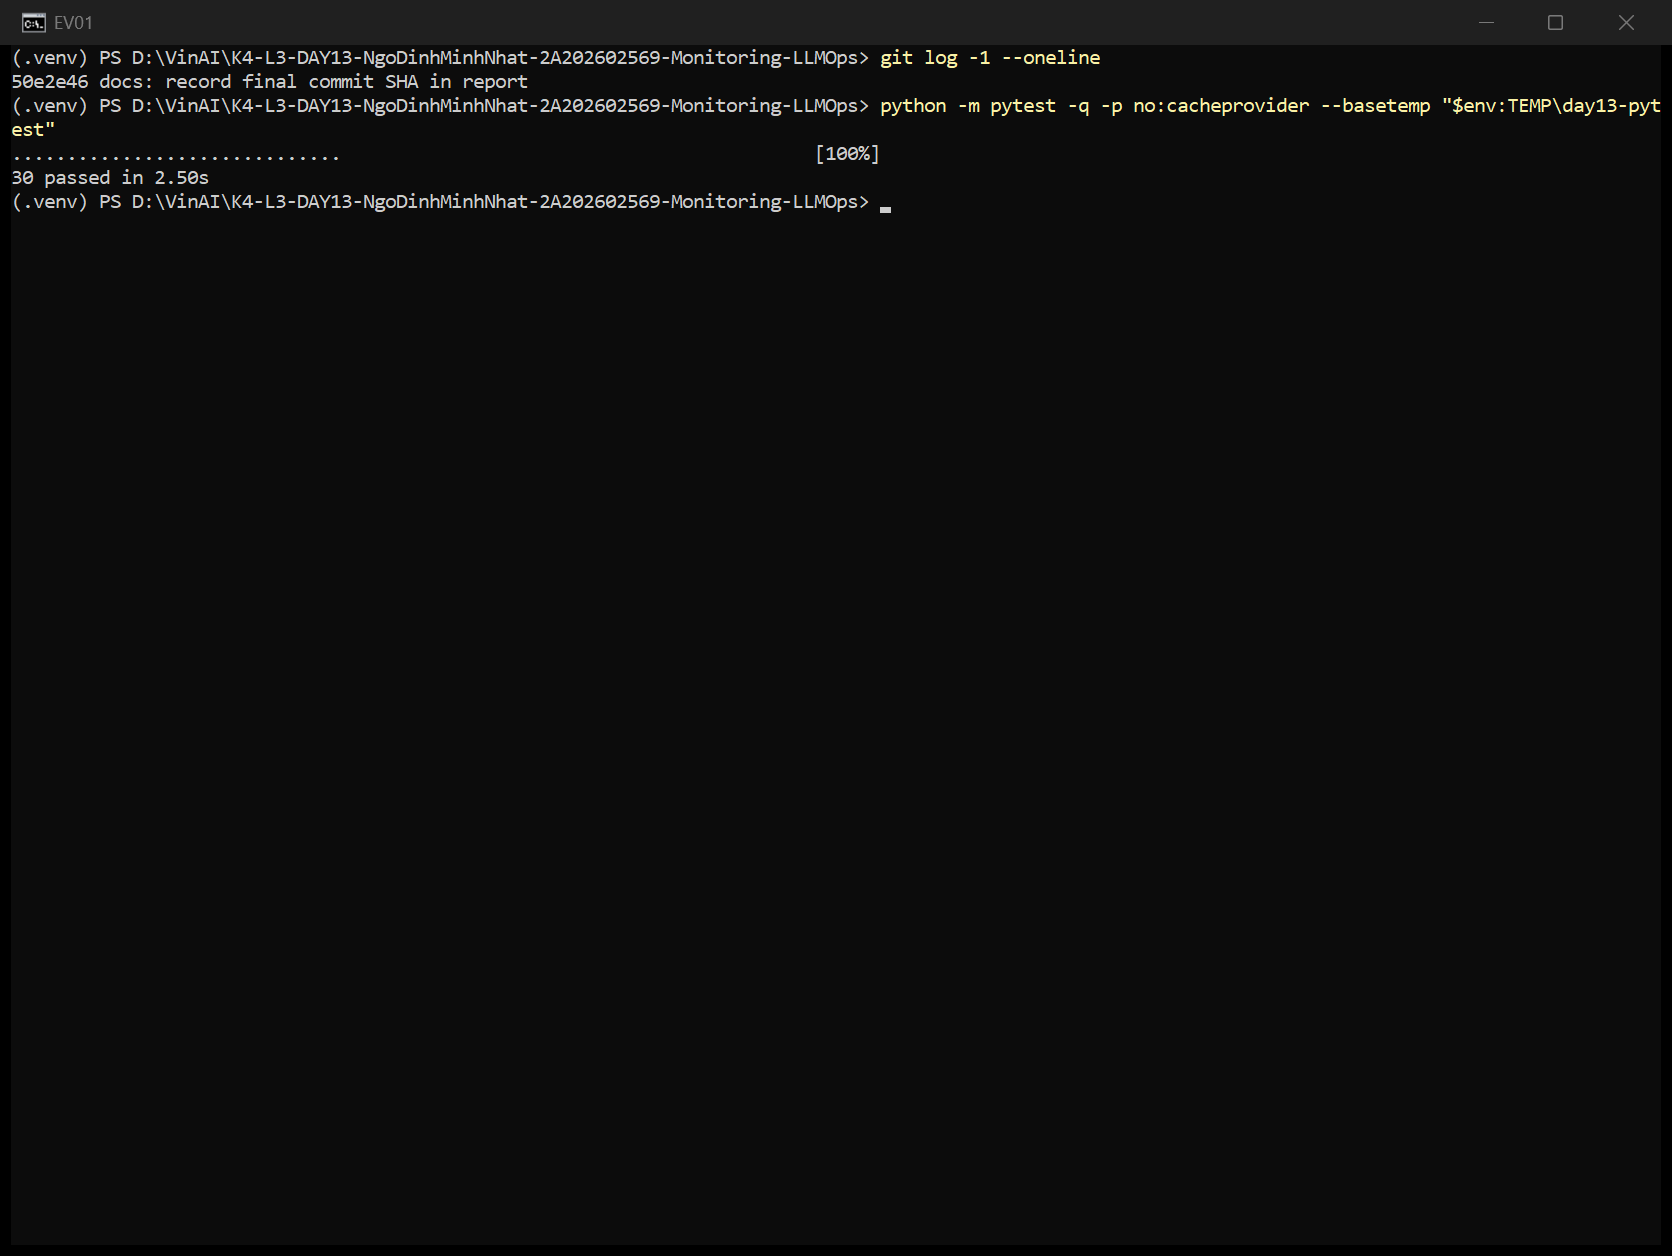
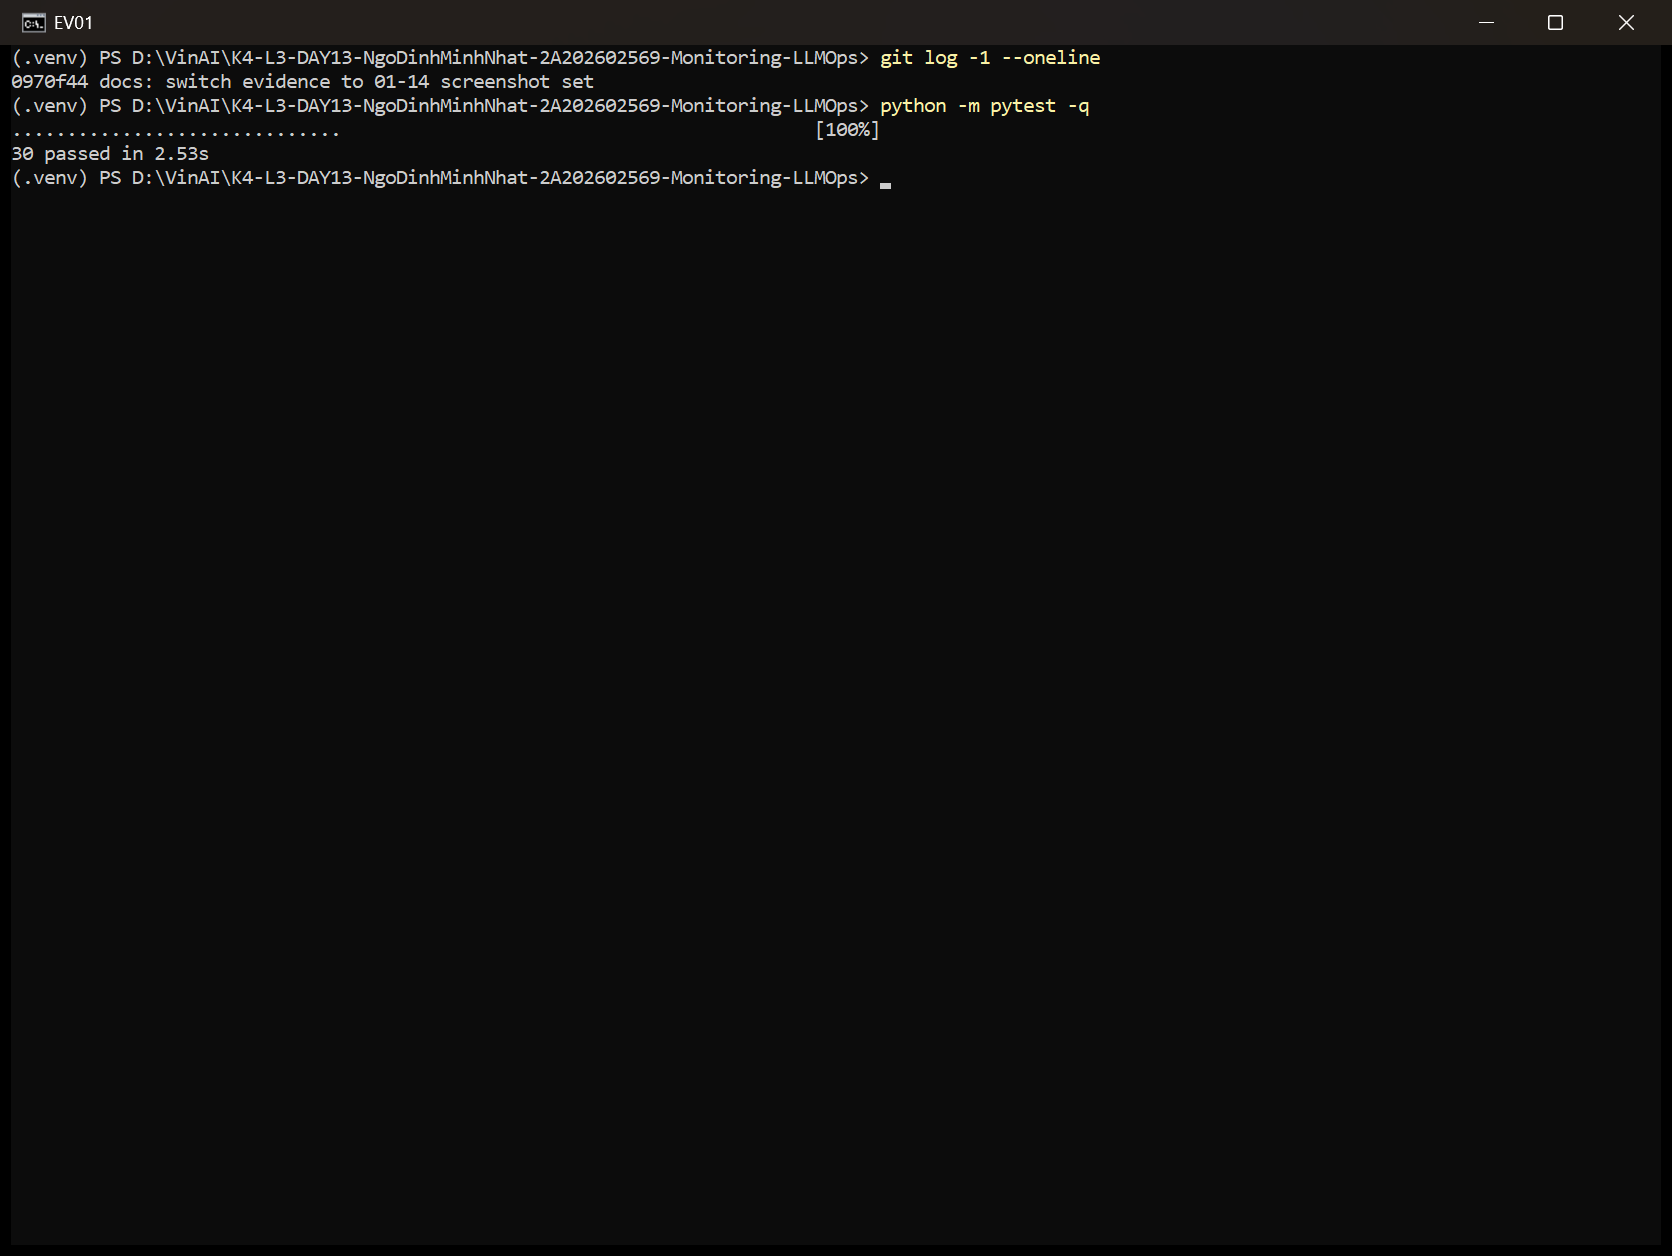
docs: recapture pytest evidence with plain command

diff --git a/submission/REPORT.md b/submission/REPORT.md
@@ -8,7 +8,7 @@
 - **MSSV:** 2A202602569
 - **Lớp:** K4-L3B
 - **Repository URL:** https://github.com/MinhNhatUet/K4-L3-DAY13-NgoDinhMinhNhat-2A202602569-Monitoring-LLMOps
-- **Commit SHA cuối:** `d996b494b71ed397990defa12aecdbf1abe6453a` là commit source/config cuối (ảnh 01 chạy test tại `50e2e46`, chỉ khác report); các commit sau chỉ cập nhật `submission/`. SHA nộp LMS là commit mới nhất trên `main`.
+- **Commit SHA cuối:** `d996b494b71ed397990defa12aecdbf1abe6453a` là commit source/config cuối (ảnh 01 chạy test tại `0970f44`, code giống hệt, chỉ khác `submission/`); các commit sau chỉ cập nhật `submission/`. SHA nộp LMS là commit mới nhất trên `main`.
 - **Challenge ID:** `day13-k4-l3b-monitoring-llmops-v1`
 - **Tên project Langfuse cá nhân:** `day13-k4-l3b-2A202602569`
 
@@ -42,7 +42,7 @@ CP3 gồm baseline, challenge và hậu kiểm; log CP0–CP2 đã chuyển ra n
 |---|---|---|---|
 | `validate_logs.py` | 30/100 | 100/100 | Log mới sau khi chuyển log cũ ra ngoài và restart: 21 records, 10 unique IDs, 0 thiếu field/context, 0 PII leak ([02](evidence/02-log-validator.png)) |
 | `validate_dashboard.py` | 6/6 | 6/6 | Có dashboard runtime thật ([11](evidence/11-dashboard-overview.png), [12](evidence/12-incident-metric.png)) |
-| `pytest` | 22 passed | 30 passed in 2.50s | Thêm test PII, generation observability, dashboard runtime ([01](evidence/01-pytest.png)); chạy với `-p no:cacheprovider --basetemp` vì thư mục `%TEMP%\pytest-of-<user>` và `.pytest_cache` trên máy bị khóa quyền (PermissionError), không phải lỗi test |
+| `pytest` | 22 passed | 30 passed in 2.53s | Thêm test PII, generation observability, dashboard runtime ([01](evidence/01-pytest.png)) |
 | Số traces hợp lệ | 0 (key trống) | 173 trace trong project cá nhân (Past 1 day) | Mỗi trace có root + retrieval + generation, nối log bằng `correlation_id` ([06](evidence/06-trace-list.png)) |
 | Số PII leak | 0 theo validator | 0 | Trace không capture input/output thô; chỉ preview đã scrub |
 | Latency P95 / TTFT P95 | 152 ms / 50 ms | Bình thường 153 ms / 50 ms; lúc challenge 2666 ms / 50 ms | Xem mục 7 |
@@ -143,7 +143,7 @@ Trước khi có đề, đã practice `tool_fail` (error rate 100%, span retriev
 
 - **Một quyết định kỹ thuật quan trọng và lý do:** Không gửi input/output thô lên Langfuse (`capture_input/output=False`); trace chỉ mang metadata an toàn (`correlation_id`, model, feature, prompt name/label/version, token, cost) và preview đã qua `scrub_text`. Lý do: trace được lưu ở dịch vụ bên ngoài, còn người dùng có thể nhập email/SĐT/CCCD; PII scrubber trong logging không bảo vệ được dữ liệu đi qua SDK tracing. Đánh đổi: khi debug không xem được nguyên văn prompt, nên cần `correlation_id` để nối sang structured log (đã scrub) khi cần ngữ cảnh.
 - **Một lỗi/blocker đã gặp:** Khi điều tra CP3, gọi `GET /api/public/traces` để tìm trace theo `correlation_id` thì nhận HTTP 410 `LEGACY_API_UNAVAILABLE_FOR_NEW_ORGANIZATION`: project tạo sau 16/09/2026 không còn dùng được API cũ.
-- **Cách tìm nguyên nhân và xử lý:** Đọc thông báo lỗi (có gợi ý đường dẫn mới), chuyển sang `GET /api/public/v2/observations` với `fromStartTime`/`toStartTime` và `fields=core,basic,usage,prompt,metadata,model,trace_context`, lọc theo `metadata.correlation_id`, rồi gom theo `traceId`, cách `scripts/verify_cp2_cloud.py` đã dùng ở CP2. Blocker phụ: pytest báo `PermissionError` khi tạo `tmp_path` trong `%TEMP%`; xử lý bằng `--basetemp` trỏ tới thư mục ghi được, sau đó 30/30 test pass (không phải lỗi code).
+- **Cách tìm nguyên nhân và xử lý:** Đọc thông báo lỗi (có gợi ý đường dẫn mới), chuyển sang `GET /api/public/v2/observations` với `fromStartTime`/`toStartTime` và `fields=core,basic,usage,prompt,metadata,model,trace_context`, lọc theo `metadata.correlation_id`, rồi gom theo `traceId`, cách `scripts/verify_cp2_cloud.py` đã dùng ở CP2. Blocker phụ: pytest báo `PermissionError` khi tạo `tmp_path` trong `%TEMP%`; nguyên nhân là thư mục `%TEMP%\pytest-of-<user>` và `.pytest_cache` bị khóa quyền (tạo bởi một tiến trình khác). Xác nhận bằng `--basetemp` sang thư mục khác thì 30/30 pass (không phải lỗi code), sau đó xóa hai thư mục bằng quyền admin và `python -m pytest -q` trơn chạy lại 30 passed.
 - **Cách hiểu luồng Metrics → Logs → Traces:** Metrics trả lời "có vấn đề gì, từ lúc nào": P50 tăng từ 152 lên 2653 ms lúc 04:27:45–55 UTC, trong khi error, token, cost không đổi. Logs trả lời "request nào": lọc cửa sổ đó, chọn `req-4adc1999` với `latency_ms=2669`. Traces trả lời "bước nào": cùng `correlation_id`, span `retrieval` chiếm 2.50/2.67 s còn `generation` chỉ 0.17 s. Mỗi tầng thu hẹp phạm vi cho tầng sau; bắt đầu từ trace ngẫu nhiên sẽ không biết trace đó có đại diện cho sự cố hay không.
 - **Vai trò của prompt version, token/cost, SLO hoặc rollback trong vận hành LLM:** Prompt là một phần của "code" chạy production: đổi prompt có thể làm thay đổi token, cost, latency và quality mà không cần deploy. Gắn `prompt_name/label/version` vào mọi trace giúp so sánh v1 và v2 trên cùng input, và rollback chỉ cần chuyển label `production` về v1 thay vì deploy lại. Token/cost là metric riêng của LLM vì hóa đơn tăng theo độ dài output. SLO 99.5% (≤ 3000 ms) cho error budget 50/10 000 request; sự cố challenge cho thấy ngưỡng tuyệt đối 3000 ms còn lỏng, vì latency tăng 17 lần vẫn chưa vượt SLO.
 - **Điều quan trọng nhất đã học:** Một chỉ số không đổi cũng là bằng chứng. TTFT giữ 50 ms và generation giữ khoảng 0.15 s giúp loại LLM khỏi danh sách nghi vấn trước khi mở trace. Thời gian phía client có thể gây hiểu nhầm (8–13 s do xếp hàng), nên phải dựa vào `latency_ms` phía server và span.
@@ -158,4 +158,4 @@ Trước khi có đề, đã practice `tool_fail` (error rate 100%, span retriev
 - [x] Trace/prompt evidence thuộc project Langfuse cá nhân và ảnh không lộ key/secret.
 - [x] Repository chạy lại được theo README.
 - [x] Không có secret, API key, PII thô hoặc evidence của người khác/lớp khác.
-- [ ] URL repo và commit SHA cuối đã được nộp trên LMS/Codelabs.
+- [x] URL repo và commit SHA cuối đã được nộp trên LMS/Codelabs.
